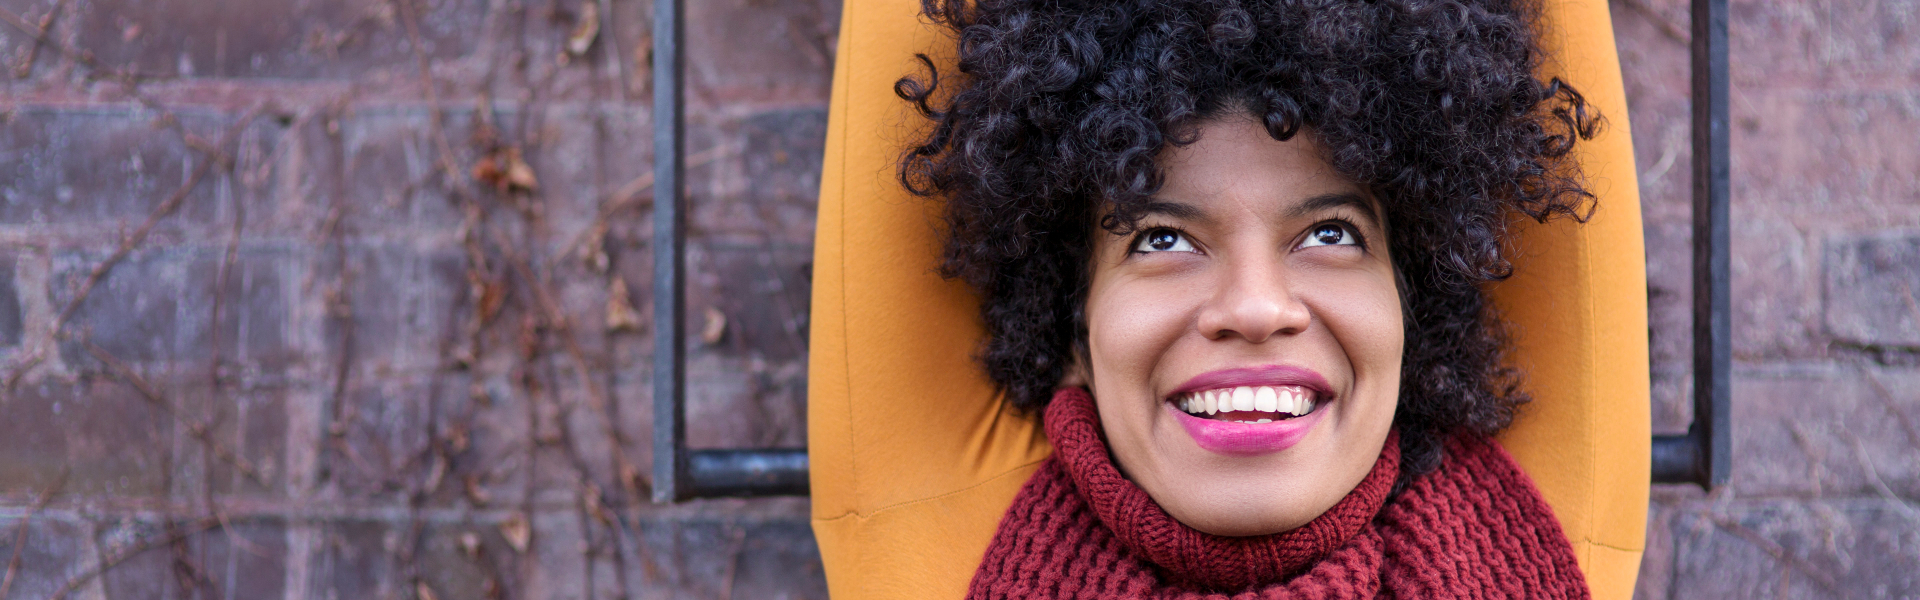
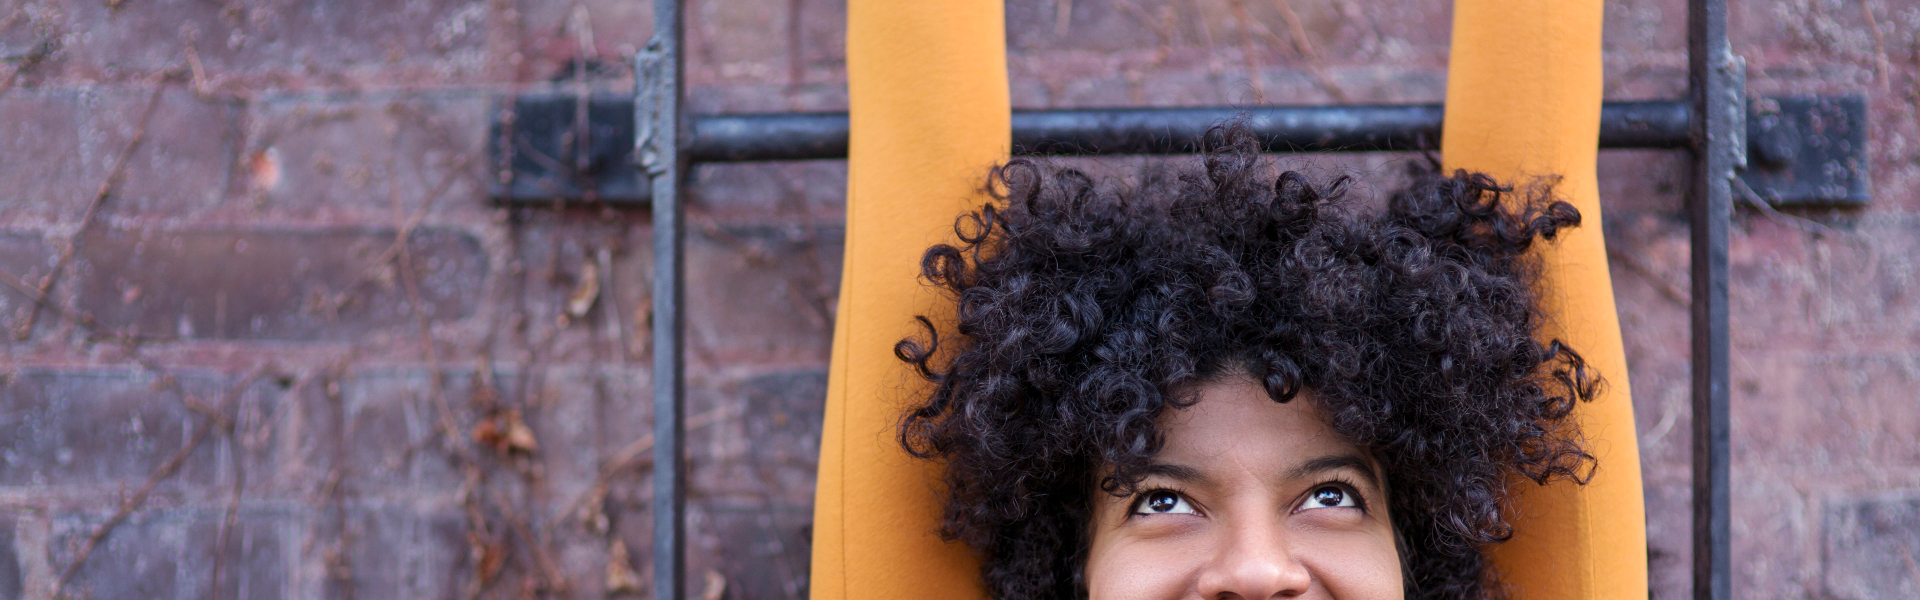
about us design

diff --git a/views/pages/about-us/about-us.html b/views/pages/about-us/about-us.html
@@ -1,81 +1,66 @@
-<article class="mch-block-1">
-  <section>
-    <h2>Our Homes</h2>
+<section class="mch-block-1 mch-inset">
+  <h2 class="mch-ellipses">about my choice homes</h2>
+  <p>Comfortable, non-institutional environments for young people.</p>
+</section>
 
-    <p>Our homes provide a comfortable, non-institutional environment for young people to begin to
-      work towards their future and independence, or return to home or to alternative carers. We are
-      committed to and support the implementation of Care Plans for short, medium and long term
-      placements.</p>
-    <p><a href="/our-homes">See our home here</a></p>
-  </section>
+<figure class="mch-block-2 mch-figure mch-slider">
+  <img src="/assets/images/about-us/about-us-part.jpg" align="my choice homes">
 
-  <section>
-    <h2>Our Tools</h2>
+  <figcaption>
+    Here at My Choice we embrace cultures
+  </figcaption>
+</figure>
 
-    <p>We have developed many tools such as our own Placement Plans (in line with Standard 2 of the
-      Minimum Standards for Children's Homes), which enables us to work closely with the young
-      people to encourage and devise appropriate Care Plans identifying their current and future
-      needs.</p>
-    <p><a href="/contact-us">Contact us for more information</a></p>
-  </section>
+<section class="hidden-slider">
+  <h3>Vision & Approach</h3>
+  <p>Every member of our team, whether RSW, Care Manager, Maintenance Worker, Office worker or
+    Director, wants to be the best. We work hard to attract and retain truly talented people.
+    People who share the same vision and approach, who help our young people to be the best that
+    they can.</p>
+  <p>We believe that our people underpin our strategic direction, provide a great energy,
+    approachability and service excellence. Here at My Choice we embrace a culture where people
+    can flourish and develop through hard work and commitment.</p>
+</section>
 
-  <section>
-    <h2>National Care Standards</h2>
+<section class="mch-block-3">
+  <h2>Our Homes</h2>
 
-    <p>Since the implementation of the National Care Standards in April 2002, My Choice has
-      established a very positive relationship with the Commission. We work in partnership with all
-      our Placing Authorities believing open and constant communication between the Home, Young
-      Person, Parents, Families and the Social Worker is essential to ensure effective and safe
-      childcare.</p>
-    <p><a href="http://www.gov.scot/Topics/Health/Support-Social-Care/Regulate/Standards"
-          target="_blank">National Care Standards</a></p>
-  </section>
+  <p>Our homes provide a comfortable, non-institutional environment for young people to begin to
+    work towards their future and independence, or return to home or to alternative carers. We are
+    committed to and support the implementation of Care Plans for short, medium and long term
+    placements.</p>
+  <p><a href="/our-homes">See our home here</a></p>
+</section>
 
-  <section>
-    <h2>Supportive Framework</h2>
+<section class="mch-block-4">
+  <h2>Our Tools</h2>
 
-    <p>Every young person brings with them unique life experiences and as such we treat all as
-      individuals, being very clear about their specific needs.</p>
-    <p>We look after the young person, not the perceived problem.</p>
-    <p>Our service seeks to provide an effective and supportive framework for Young People who would
-      otherwise be hard to place.</p>
-    <p><a href="/services">More information on our services</a></p>
-  </section>
+  <p>We have developed many tools such as our own Placement Plans (in line with Standard 2 of the
+    Minimum Standards for Children's Homes), which enables us to work closely with the young
+    people to encourage and devise appropriate Care Plans identifying their current and future
+    needs.</p>
+  <p><a href="/contact-us">Contact us for more information</a></p>
+</section>
 
-  <blockquote>
-    <p>Every member of our team, whether RSW, Care Manager, Maintenance Worker, Office worker or
-      Director, wants to be the best. We work hard to attract and retain truly talented people.
-      People who share the same vision and approach, who help our young people to be the best that
-      they can.</p>
-    <p>We believe that our people underpin our strategic direction, provide a great energy,
-      approachability and service excellence. Here at My Choice we embrace a culture where people
-      can flourish and develop through hard work and commitment.</p>
-  </blockquote>
-</article>
+<section class="mch-block-5">
+  <h2>National Care Standards</h2>
 
-<aside class="mch-block-2">
-  <figure>
-    <img src="/assets/images/about-us/alex.jpg" alt="alex my choice homes">
+  <p>Since the implementation of the National Care Standards in April 2002, My Choice has
+    established a very positive relationship with the Commission. We work in partnership with all
+    our Placing Authorities believing open and constant communication between the Home, Young
+    Person, Parents, Families and the Social Worker is essential to ensure effective and safe
+    childcare.</p>
+  <p><a href="http://www.gov.scot/Topics/Health/Support-Social-Care/Regulate/Standards"
+        target="_blank">National Care Standards</a></p>
+</section>
 
-    <figcaption>Alex has over 20 years experience working with children who
-      display emotional and challenging behaviour. His professional experience includes working with
-      adults who have left Local Authority care and those experiencing mental health difficulties.
-      Alex has worked within the voluntary, public and private sectors. He has considerable
-      management experience of various residential homes ranging in size from 3 to 7 bedded. Trained
-      at Caldecott College (accredited by Greenwich University) he achieved a Graduate Certificate
-      in Therapeutic Childcare.
-    </figcaption>
-  </figure>
+<section class="mch-block-6">
+  <h2>Supportive Framework</h2>
 
-  <figure>
-    <img src="/assets/images/about-us/placeholder.jpg" alt="peter my choice homes">
-
-    <figcaption>Peter has over 20 years experience working with older adults
-      with neuro-disabilities and young people with emotional and behavioural difficulties. He has
-      managed homes and was Deputy Head of Care within a special needs school for children with a
-      Statement of Special Educational Needs. He is a graduate from the University of Sussex in
-      Applied Psychology and is part qualified with an Advanced Diploma in Therapeutic Counselling.
-      Peter is the Responsible Person for the Company and Ofsted.
-    </figcaption>
-  </figure>
-</aside>
+  <p>Every young person brings with them unique life experiences and as such we treat all as
+    individuals, being very clear about their specific needs.</p>
+  <p>We look after the young person, not the perceived problem.</p>
+  <p>Our service seeks to provide an effective and supportive framework for Young People who would
+    otherwise be hard to place.</p>
+  <p><a href="/services">More information on our services</a></p>
+</section>

diff --git a/source/javascript/views/about-us/about-us.js b/source/javascript/views/about-us/about-us.js
@@ -1,10 +1,66 @@
-import insertContainer from '../../common/insert-container';
+import preload from '../../common/image-preload';
+import matchHeight from '../../common/match-height';
+import figure from '../../common/figure';
+import createInnerDiv from '../../common/create-inner-div';
+import insertIcons from '../../common/insert-icons';
+import slider from '../../common/slider';
 
-const container = function container() {
-  return insertContainer([
-    'mch-block-1',
-    'mch-block-2',
+const iconic = function iconic() {
+  return insertIcons([
+    'mch-ellipses',
+  ], true);
+};
+
+const blockHeight = function blockHeight() {
+  return matchHeight([
+    {
+      breakpoints: ['MD', 'LG', 'XL'],
+      elements: [
+        ['mch-block-1', 'mch-block-2', 'hidden-slider'],
+      ],
+    },
+    {
+      breakpoints: ['SM'],
+      elements: [
+        ['mch-block-2', 'hidden-slider'],
+      ],
+    },
+    {
+      breakpoints: ['XS'],
+      elements: [
+        [],
+      ],
+    },
   ]);
 };
 
-container();
+const insetDesign = function insetDesign() {
+  return createInnerDiv([
+    'mch-block-1',
+  ]);
+};
+
+const sliders = function sliders() {
+  return slider([
+    { direction: 'right' },
+  ]);
+};
+
+const preloadImages = function preloadImages() {
+  return preload([
+    '/assets/images/activities/activities-part.jpg',
+  ]);
+};
+
+const init = function init() {
+  Promise.all(preloadImages()).then(() => {
+    figure.insertShadow();
+    figure.grayscaleSwitch();
+    iconic();
+    insetDesign();
+    sliders();
+    blockHeight();
+  });
+};
+
+init();

diff --git a/source/scss/views/about-us/_about_us.scss b/source/scss/views/about-us/_about_us.scss
@@ -1,32 +1,46 @@
-.mch-about-us [class*='mch-block-'] {
-  float: left;
-  width: 100%;
+.mch-about-us {
+  [class*='mch-block-'] { width: 98%; margin: 1%; }
+
+  .mch-block-2 { margin-bottom: $doubleSpace; }
+
+  .mch-block-1.mch-inset {
+    background-color: $mauve-light;
+    color: $white;
+    box-shadow: 0 0 .5rem $dark inset;
+  }
+}
+
+@media (min-width: 34em) {
+  .mch-about-us {
+  }
 }
 
 @media (min-width: 48em) {
-  .mch-about-us .mch-block-2 figure {
-    width: 48%;
-    float: left;
-    padding: 0 1%;
+  .mch-about-us {
+    .mch-block-1, .mch-block-2 { float: left; }
+
+    .mch-block-1 {
+      max-width: 35.5%;
+      margin: 0 .5% $doubleSpace 1%;
+    }
+
+    .mch-block-2 {
+      max-width: 61.5%;
+      margin: 0 1% $doubleSpace .5%;
+    }
+
+    .mch-block-3, .mch-block-4, .mch-block-5, .mch-block-6 {
+      max-width: 80%;
+      margin: 0 auto;
+    }
   }
 }
 
 @media (min-width: 62em) {
   .mch-about-us {
-    .mch-block-1 {
-      float: right;
-      width: 69%;
-      margin-left: 1%;
-    }
-
-    .mch-block-2 {
-      width: 29%;
-      margin-right: 1%;
-
-      figure {
-        width: 100%;
-        float: none;
-      }
+    .mch-block-3, .mch-block-4, .mch-block-5, .mch-block-6 {
+      max-width: 60%;
+      margin: 0 auto;
     }
   }
 }

diff --git a/source/scss/partials/_header.scss b/source/scss/partials/_header.scss
@@ -21,7 +21,7 @@ body.mch-home-view header.mch-header {
 }
 
 body.mch-about-us header.mch-header {
-  background: url('/assets/images/header/about-us.jpg') no-repeat scroll 0 0;
+  background: url('/assets/images/header/about-us.jpg') no-repeat scroll right bottom;
 }
 
 body.mch-our-staff header.mch-header {
@@ -65,7 +65,7 @@ body.mch-activities header.mch-header {
 }
 
 body.mch-referrals header.mch-header {
-  background: url('/assets/images/header/referrals.jpg') no-repeat scroll 0 0;
+  background: url('/assets/images/header/referrals.jpg') no-repeat scroll right bottom;
 }
 
 body.mch-careers header.mch-header {
